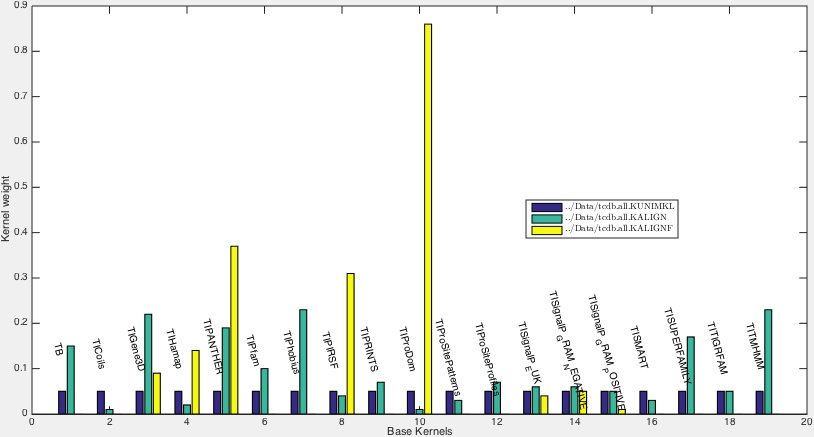
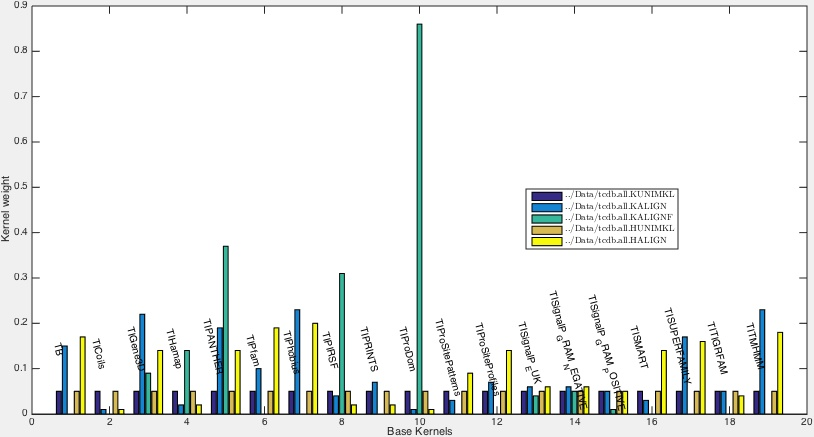
automatic update github

Changed region(s): [[0.0614, 0.0595, 0.9828, 0.9519], [0.645, 0.4165, 0.8292, 0.595]]

diff --git a/Experiments/BinsMKL/plot_kernel_weight.m b/Experiments/BinsMKL/plot_kernel_weight.m
@@ -3,7 +3,7 @@ function plot_kernel_weight()
 
   addpath('./savefigure/');
 
-  [xFilenameList,yFilenameList,auc,acc,f1,precision,recall] = textread('../ResultsMKL/results','%s %s %s %s %s %s %s','headerlines',1);
+  [xFilenameList,yFilenameList,auc,auprc,acc,f1,precision,recall] = textread('../ResultsMKL/results','%s %s %s %s %s %s %s %s','headerlines',1);
   
   figure1 = figure('visible','off');
   set(figure1, 'PaperUnits', 'centimeters');
@@ -12,7 +12,7 @@ function plot_kernel_weight()
   W = [];
   for i=1:size(xFilenameList,1)
     xFilename = xFilenameList{i};
-    [X] = dlmread(sprintf('../Data/tcdb.all.w%s',regexprep(xFilename,'.*\.K','')));
+    [X] = dlmread(sprintf('../Data/tcdb.all.w%s',regexprep(xFilename,'.*\.','')));
     W = [W,X];
   end
   bar(W);
